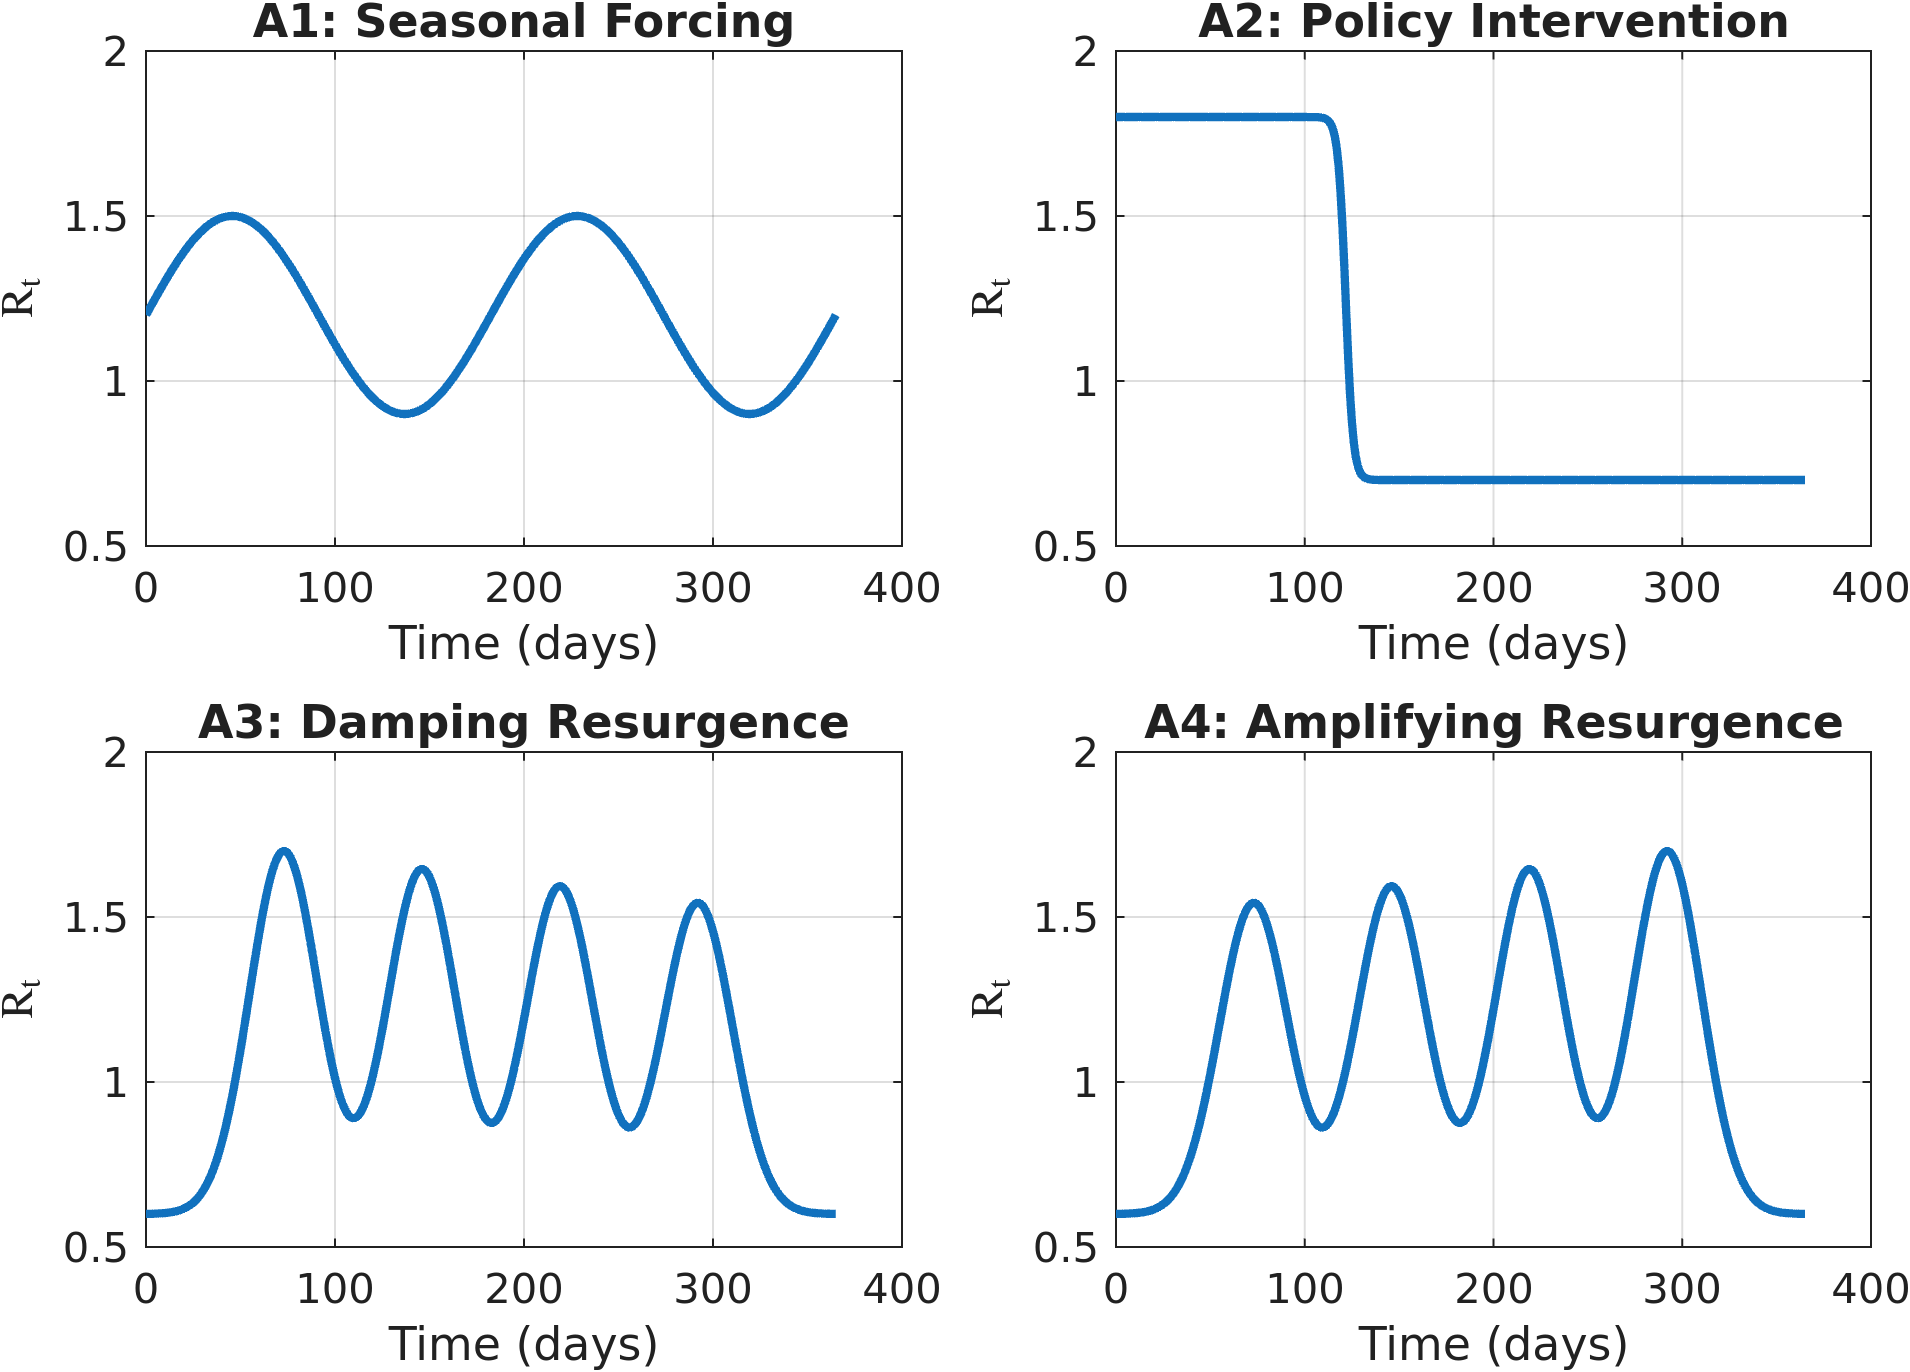
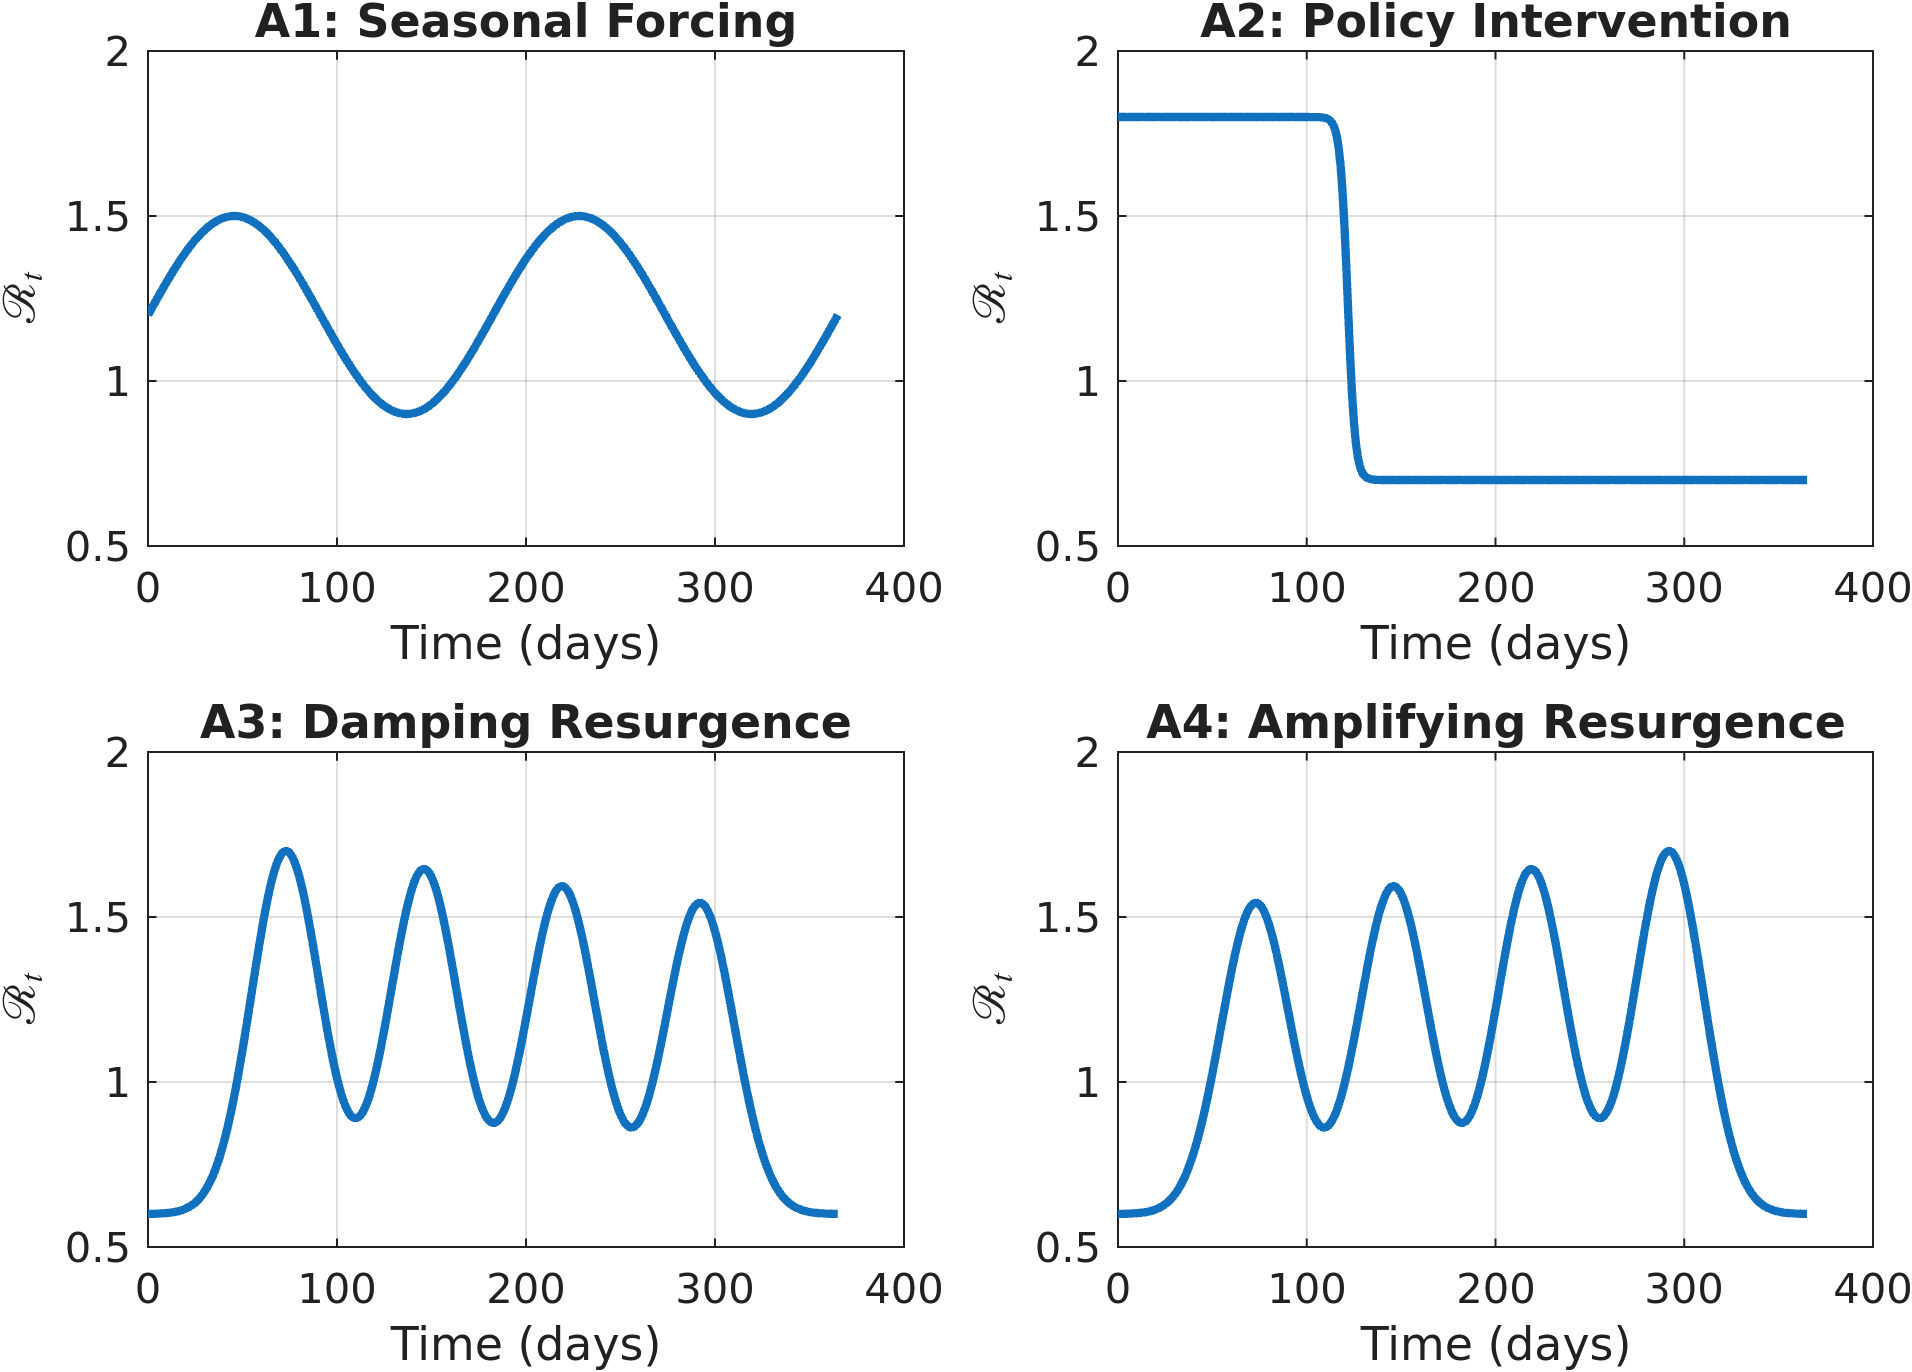
Enhance WIS summary classification and visualization by adding acceptance flags and updating performance plotting logic

diff --git a/scripts/partA_04_evaluate_models.m b/scripts/partA_04_evaluate_models.m
@@ -133,8 +133,12 @@ summary_stats.Properties.VariableNames = regexprep(summary_stats.Properties.Vari
     {'mean_', 'median_', 'std_', 'min_', 'max_'}, ...
     {'Mean_', 'Median_', 'Std_', 'Min_', 'Max_'});
 
+summary_stats = classify_wis_summary(summary_stats);
+score_registry = attach_comparison_flags(score_registry, summary_stats);
+
 fprintf('\n  [ Performance Summary (WIS) ]\n');
-disp(summary_stats(:, {'Scenario', 'Model', 'ExoMode', 'Mean_WindowWIS', 'Std_WindowWIS'}));
+disp(summary_stats(:, {'Scenario', 'Model', 'ExoMode', 'Mean_WindowWIS', ...
+    'Std_WindowWIS', 'IsAcceptable', 'FailureReason', 'IncludeInMainComparison'}));
 
 summaryFile = fullfile(scoreDir, 'partA_04_wis_performance_summary.csv');
 writetable(summary_stats, summaryFile);
@@ -240,3 +244,61 @@ function detail_rows = empty_pointwise_table()
         'VariableNames', {'Scenario', 'Model', 'ExoMode', 'WindowDay', ...
         'HorizonIdx', 'ForecastDay', 'Truth_Rt', 'Median_Forecast', 'WIS'});
 end
+
+function summary_stats = classify_wis_summary(summary_stats)
+%CLASSIFY_WIS_SUMMARY Mark out-of-scale WIS scores before plotting/ranking.
+    num_rows = height(summary_stats);
+    mean_wis = summary_stats.Mean_WindowWIS;
+
+    is_acceptable = true(num_rows, 1);
+    failure_reason = strings(num_rows, 1);
+
+    invalid_idx = ~isfinite(mean_wis) | mean_wis <= 0;
+    is_acceptable(invalid_idx) = false;
+    failure_reason(invalid_idx) = "nonfinite_or_nonpositive_wis";
+
+    finite_positive_idx = isfinite(mean_wis) & mean_wis > 0;
+    finite_positive_wis = mean_wis(finite_positive_idx);
+
+    if numel(finite_positive_wis) >= 3
+        log_wis = log10(finite_positive_wis);
+        center_log_wis = median(log_wis);
+        robust_spread = median(abs(log_wis - center_log_wis));
+        outlier_threshold = center_log_wis + max(6 * robust_spread, 3);
+
+        all_log_wis = nan(num_rows, 1);
+        all_log_wis(finite_positive_idx) = log10(mean_wis(finite_positive_idx));
+        outlier_idx = finite_positive_idx & all_log_wis > outlier_threshold;
+
+        is_acceptable(outlier_idx) = false;
+        failure_reason(outlier_idx) = "robust_log_outlier";
+    end
+
+    include_in_main = false(num_rows, 1);
+    config_table = unique(summary_stats(:, {'Model', 'ExoMode'}), 'rows');
+
+    for i = 1:height(config_table)
+        config_idx = summary_stats.Model == config_table.Model(i) & ...
+            summary_stats.ExoMode == config_table.ExoMode(i);
+        include_in_main(config_idx) = all(is_acceptable(config_idx));
+    end
+
+    summary_stats.IsAcceptable = is_acceptable;
+    summary_stats.FailureReason = failure_reason;
+    summary_stats.IncludeInMainComparison = include_in_main;
+end
+
+function score_registry = attach_comparison_flags(score_registry, summary_stats)
+%ATTACH_COMPARISON_FLAGS Propagate configuration-level plotting status.
+    include_in_main = false(height(score_registry), 1);
+    config_table = unique(summary_stats(:, {'Model', 'ExoMode', 'IncludeInMainComparison'}), 'rows');
+
+    for i = 1:height(config_table)
+        config_idx = score_registry.Model == config_table.Model(i) & ...
+            score_registry.ExoMode == config_table.ExoMode(i);
+        include_in_main(config_idx) = config_table.IncludeInMainComparison(i);
+    end
+
+    score_registry.IncludeInMainComparison = include_in_main;
+end
+

diff --git a/src/plots/plot_model_performance.m b/src/plots/plot_model_performance.m
@@ -6,9 +6,9 @@ function was_saved = plot_model_performance(score_registry, cfg)
 %
 %   Description:
 %       Generates a comparative boxplot of Weighted Interval Score (WIS)
-%       across different model configurations and scenarios. Automatically
-%       filters non-finite values and applies logarithmic scaling if scores
-%       span multiple orders of magnitude.
+%       across accepted model configurations and scenarios. Automatically
+%       filters non-finite values and any rows flagged as excluded from the
+%       main comparison before plotting.
 %
 %   Inputs:
 %       score_registry - Table containing merged evaluation scores.
@@ -47,11 +47,17 @@ function was_saved = plot_model_performance(score_registry, cfg)
     axtoolbar(ax, {'export'});
 
     config_id = string(score_registry.Model) + " (" + string(score_registry.ExoMode) + ")";
-    
-    valid_idx = isfinite(score_registry.WindowWIS);
+
+    if ismember('IncludeInMainComparison', score_registry.Properties.VariableNames)
+        comparison_idx = logical(score_registry.IncludeInMainComparison);
+    else
+        comparison_idx = true(height(score_registry), 1);
+    end
+
+    valid_idx = isfinite(score_registry.WindowWIS) & comparison_idx;
     
     if ~any(valid_idx)
-        warning('PLOT:NoData', 'All WIS values are Inf or NaN. Skipping visualization.');
+        warning('PLOT:NoData', 'No finite accepted WIS values were available. Skipping visualization.');
         close(fig);
         return;
     end
